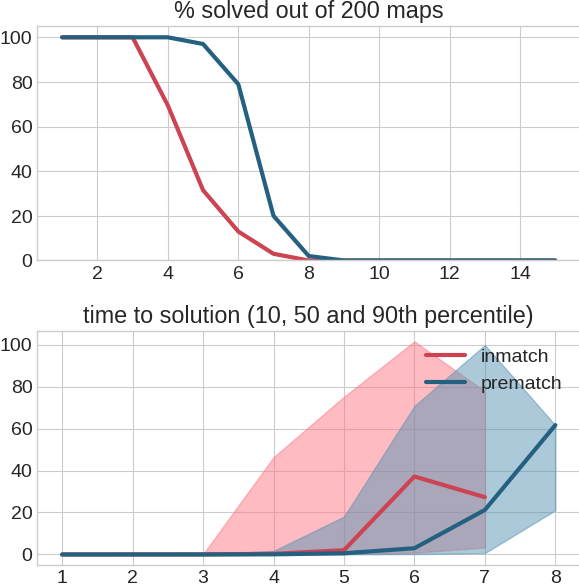
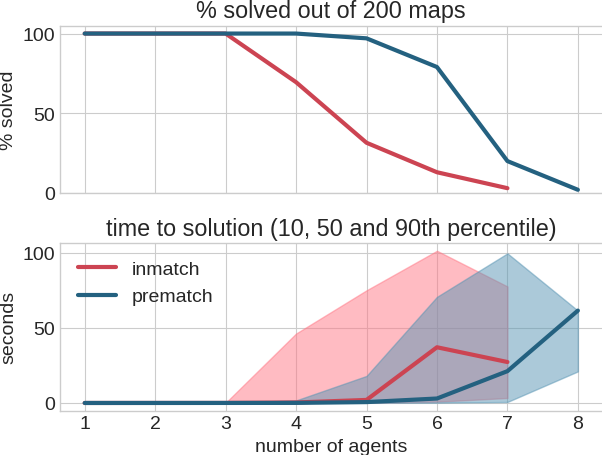
before run

diff --git a/python/benchmarks/graph_output.py b/python/benchmarks/graph_output.py
@@ -48,12 +48,12 @@ def percentile(l: list[float], perc: float) -> float:
 def graph_results(*args):
     plt.style.use('seaborn-whitegrid')
 
-    plt.rcParams["figure.figsize"] = (7, 7)
+    plt.rcParams["figure.figsize"] = (7, 5)
     plt.rcParams['font.size'] = '14'
     plt.tight_layout(pad=0)
     plt.margins(0, 0)
 
-    fig, (percentage, times) = plt.subplots(2, 1)
+    fig, (percentage, times) = plt.subplots(2, 1, sharex=True)
 
     plt.subplots_adjust(hspace=0.3)
 
@@ -61,8 +61,11 @@ def graph_results(*args):
     times.set_title("time to solution (10, 50 and 90th percentile)")
 
     percentage.xaxis.set_major_locator(MaxNLocator(integer=True))
+    percentage.set_ylabel("% solved")
     times.xaxis.set_major_locator(MaxNLocator(integer=True))
 
+    times.set_xlabel("number of agents")
+    times.set_ylabel("seconds")
     percentage.set_ylim(0, 105)
 
     save_location = args[-1]
@@ -86,14 +89,15 @@ def graph_results(*args):
 
                 solved_times = [i for i in after_list if i is not None]
 
-                percentagexdata.append(num_agents)
-                percentageydata.append(fraction_solved * 100)
+                if fraction_solved != 0:
+                    percentagexdata.append(num_agents)
+                    percentageydata.append(fraction_solved * 100)
 
-                if len(solved_times) != 0:
-                    timesxdata.append(num_agents)
-                    times10pydata.append(percentile(solved_times, 10))
-                    times50pydata.append(percentile(solved_times, 50))
-                    times90pydata.append(percentile(solved_times, 90))
+                    if len(solved_times) != 0:
+                        timesxdata.append(num_agents)
+                        times10pydata.append(percentile(solved_times, 10))
+                        times50pydata.append(percentile(solved_times, 50))
+                        times90pydata.append(percentile(solved_times, 90))
 
             percentage.plot(
                 percentagexdata,

diff --git a/python/benchmarks/inmatch_vs_prematch_25percent_1teams.py b/python/benchmarks/inmatch_vs_prematch_25percent_1teams.py
@@ -46,7 +46,7 @@ def run_benchmark():
     batchdir = this_dir / name
     parser = MapParser(batchdir)
 
-    if (batchdir / "results_inmatch_tmp.txt").exists():
+    if (batchdir / "results_inmatch.txt").exists():
         print("data exists")
         return
     if (batchdir / "results_prematch.txt").exists():
@@ -107,7 +107,7 @@ def run_benchmark():
     tqdm.write(str(inmatch))
     tqdm.write(str(prematch))
 
-    output_data(batchdir / "results_inmatch_tmp.txt", inmatch)
+    output_data(batchdir / "results_inmatch.txt", inmatch)
     output_data(batchdir / "results_prematch.txt", prematch)
 
 
@@ -124,6 +124,6 @@ if __name__ == '__main__':
     run_benchmark()
 
     graph_results(
-        (batchdir / "results_inmatch_tmp.txt", "inmatch"),
+        (batchdir / "results_inmatch.txt", "inmatch"),
         (batchdir / "results_prematch.txt", "prematch")
     )

diff --git a/python/randomize/generate_map.py b/python/randomize/generate_map.py
@@ -413,7 +413,6 @@ if __name__ == '__main__':
         plt.ylabel("% solved in 30 seconds")
         plt.xlabel("number of agents")
         plt.xticks([i for i in range(1, 12)])
-        plt.tight_layout()
         # plt.xlim(1, 10)
         for (name, dp), color in zip(copy.deepcopy(dict(data)).items(), colors):
             if len(data[0]) != 0 and type(name) == str:
